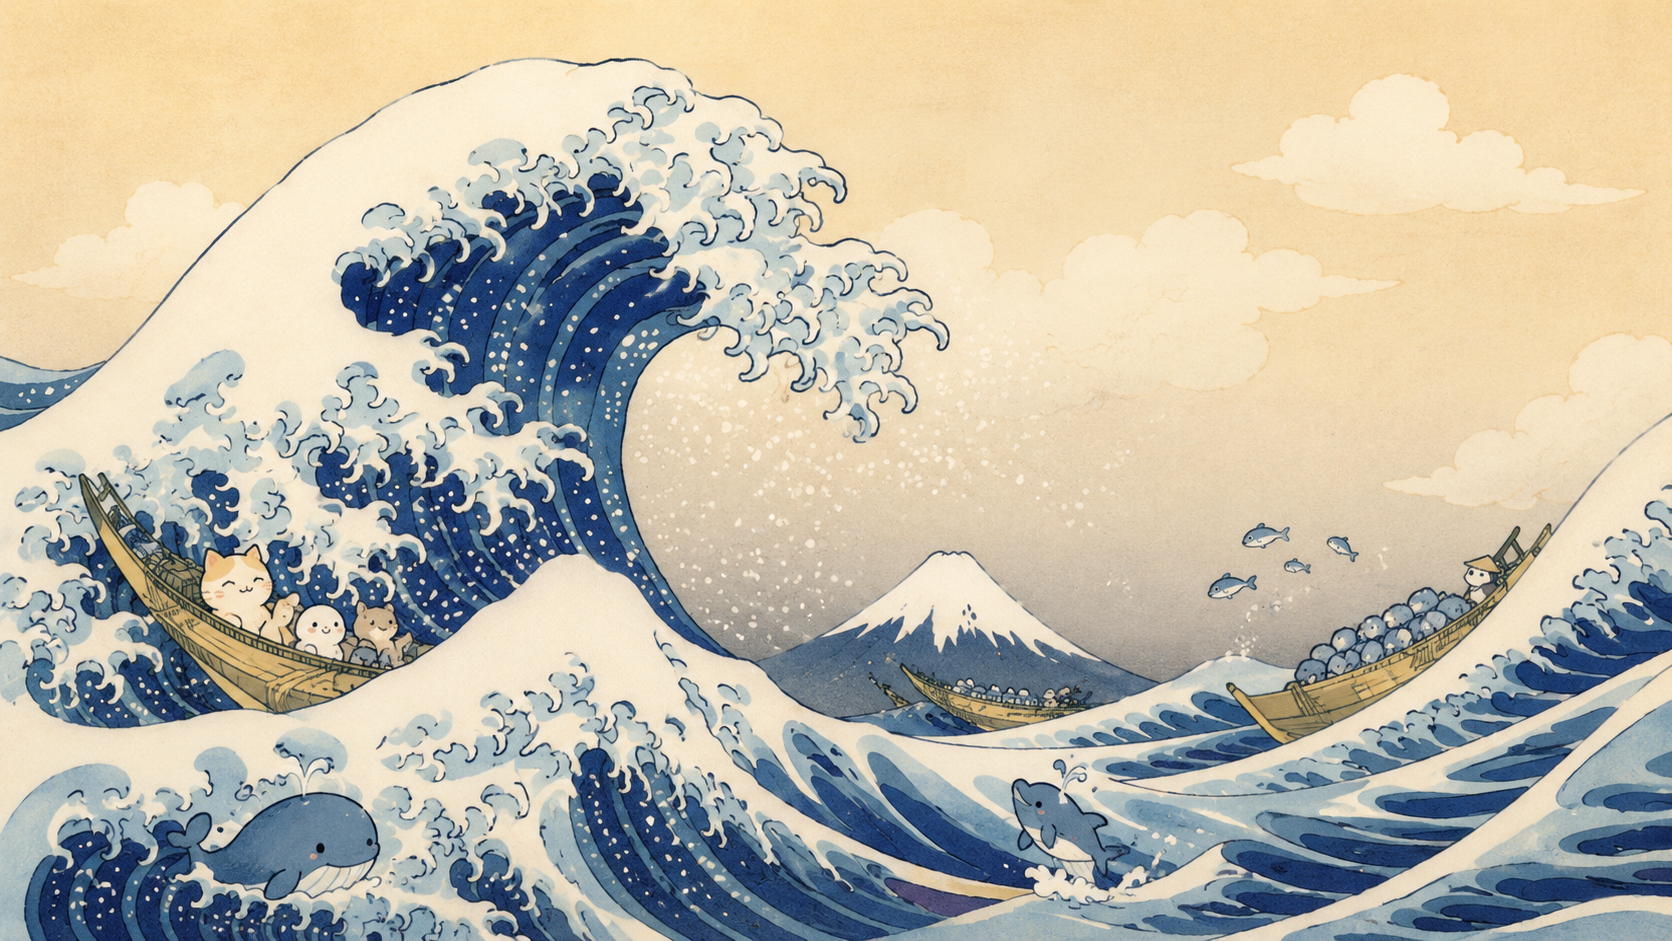
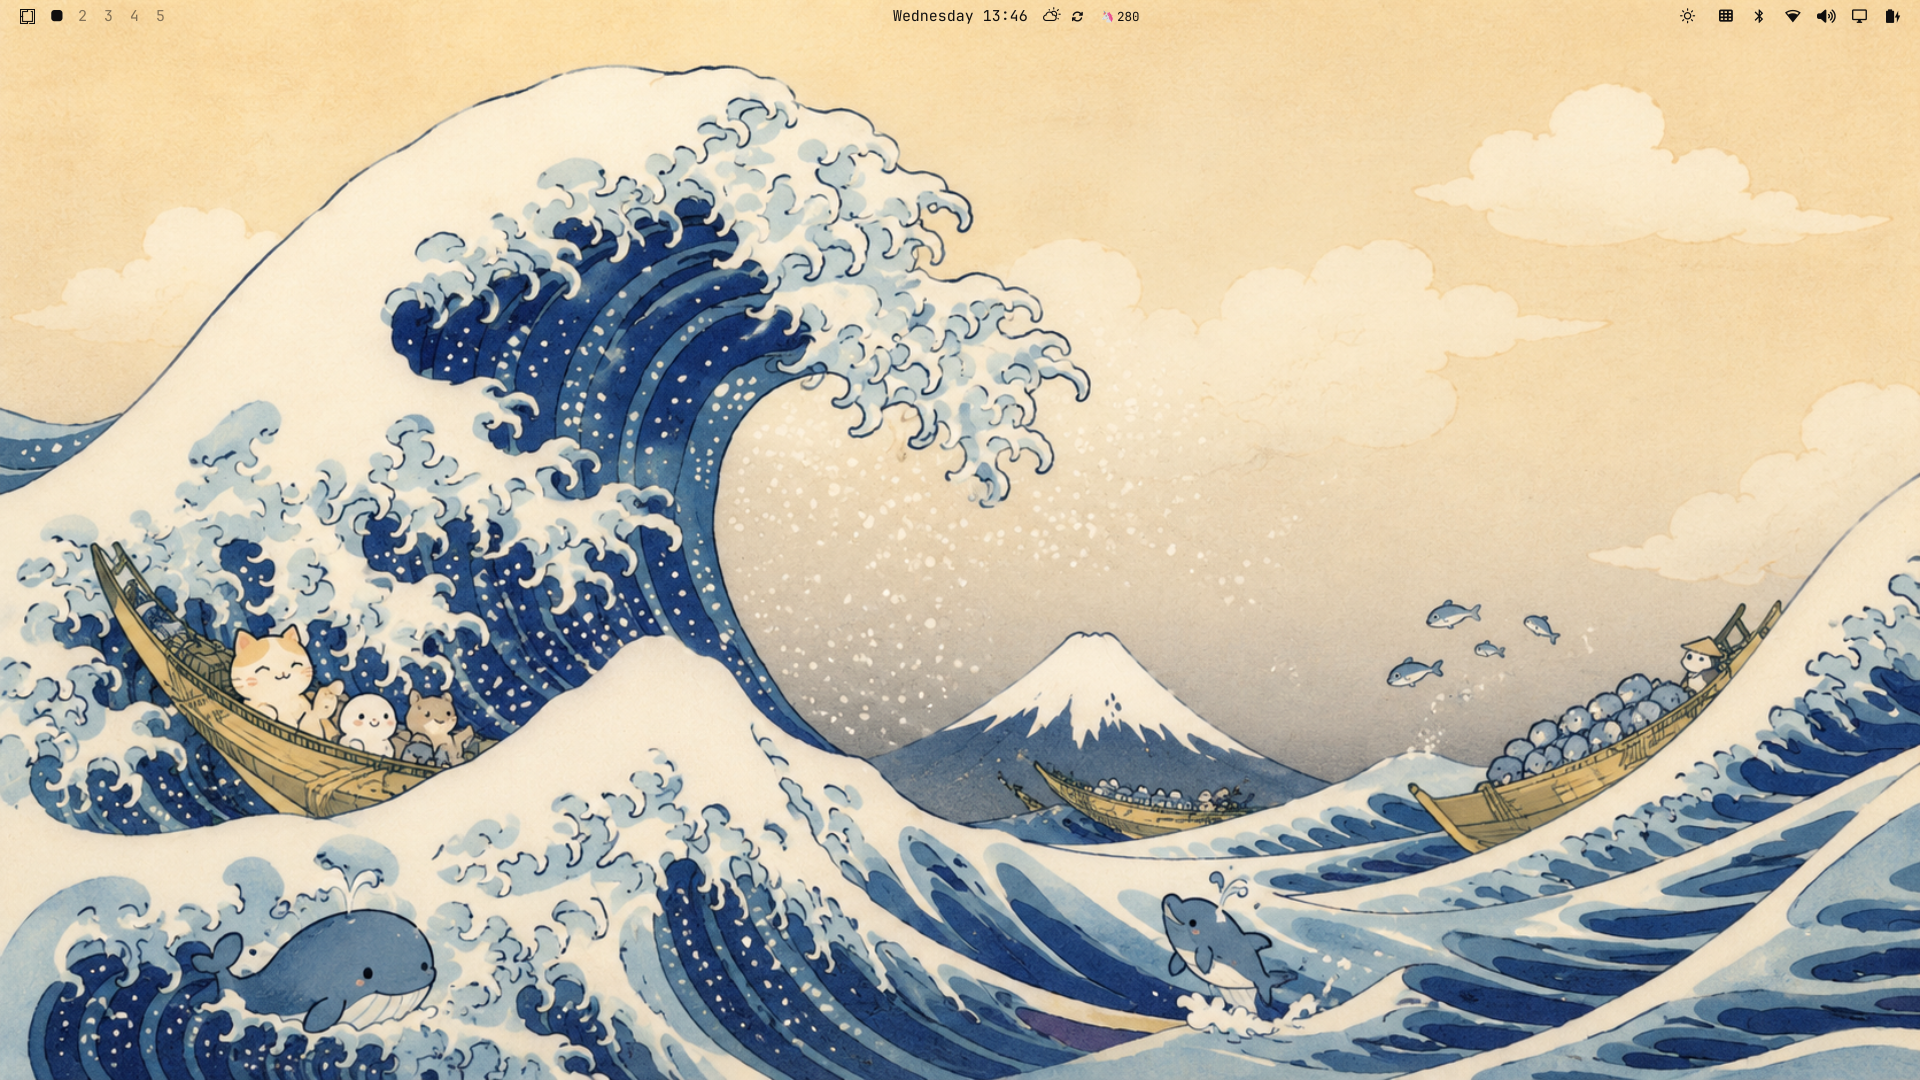
Replace placeholder preview with real desktop screenshot

diff --git a/README.md b/README.md
@@ -4,7 +4,7 @@ A bright, airy **light** theme for kids: the calm warm-paper **Flexoki Light** p
 
 ![Preview](preview.png)
 
-> The preview is a placeholder (the wallpaper itself). Replace it with a real desktop screenshot after installing.
+> The preview is a real desktop screenshot of the theme in use.
 
 ## Install
 
